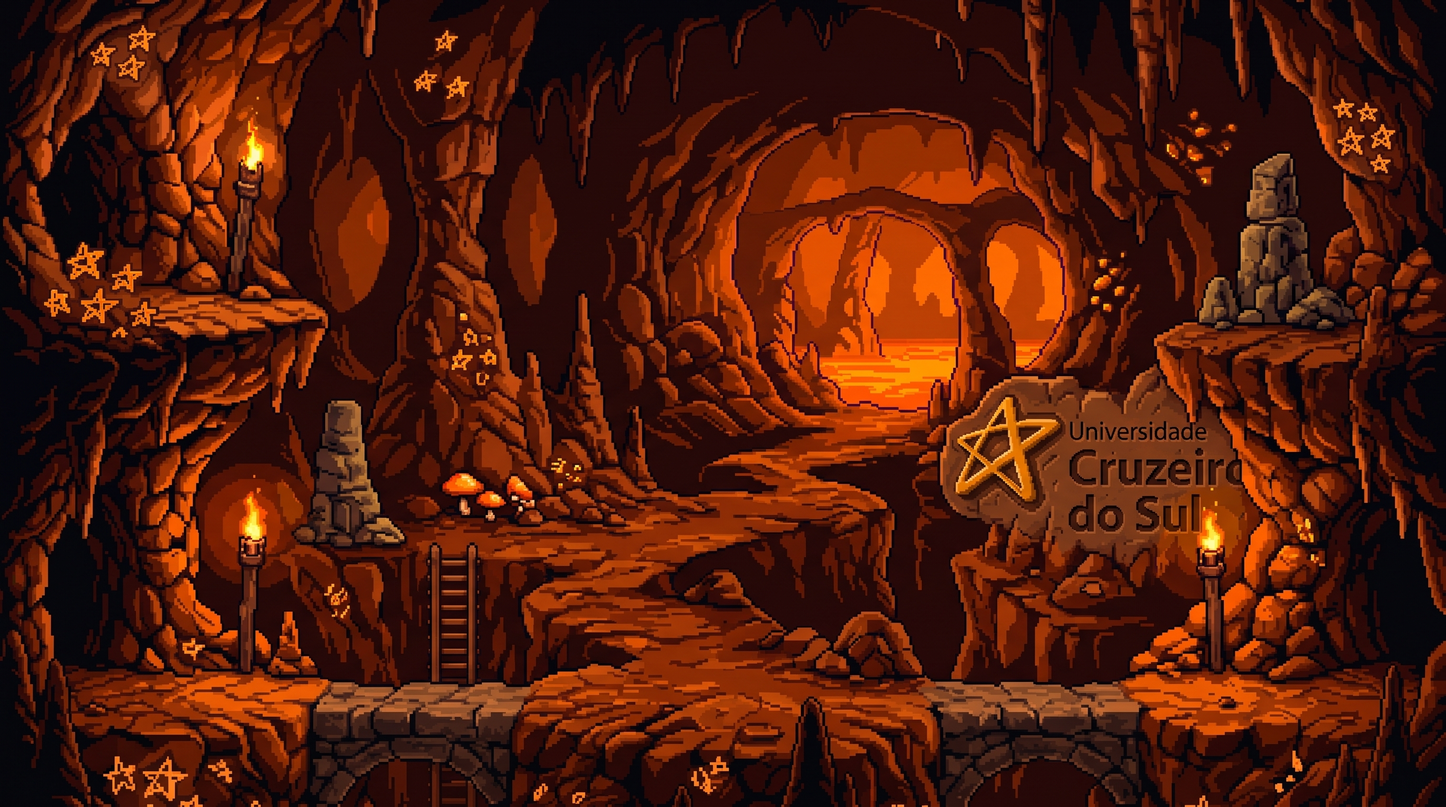
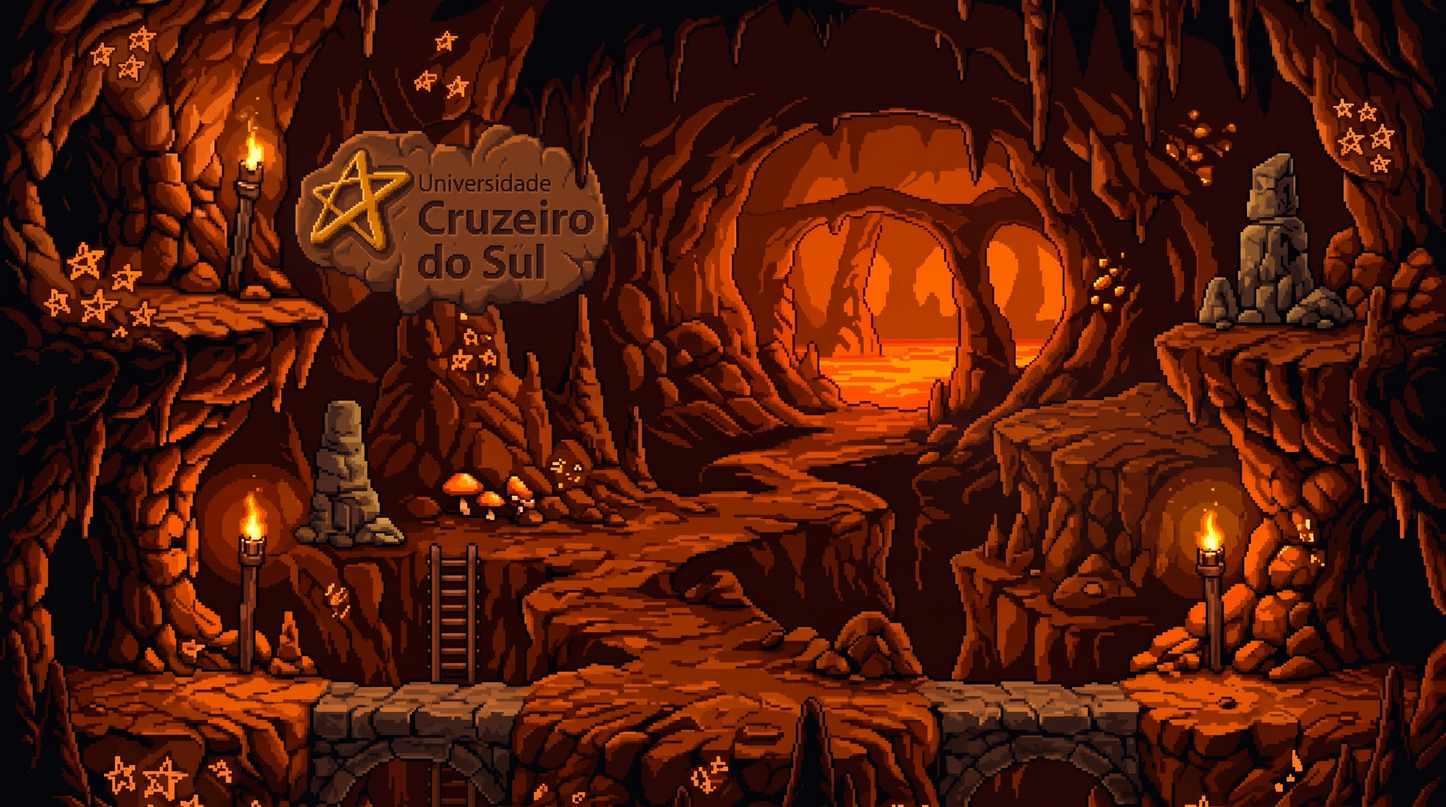
mudança nos backgrounds das fases

diff --git a/CSS/Scenes.css b/CSS/Scenes.css
@@ -111,7 +111,7 @@ h1 {
     border-radius: 24px;
 
     /* PNG do cenário */
-    background-image: url("/images/cenario.jpeg");
+    background-image: url("/images/Mudar_nome_e_logo_esquerda_2K_20260911180303.jpeg");
 
     /* Preenche o cenário */
     background-size: cover;
